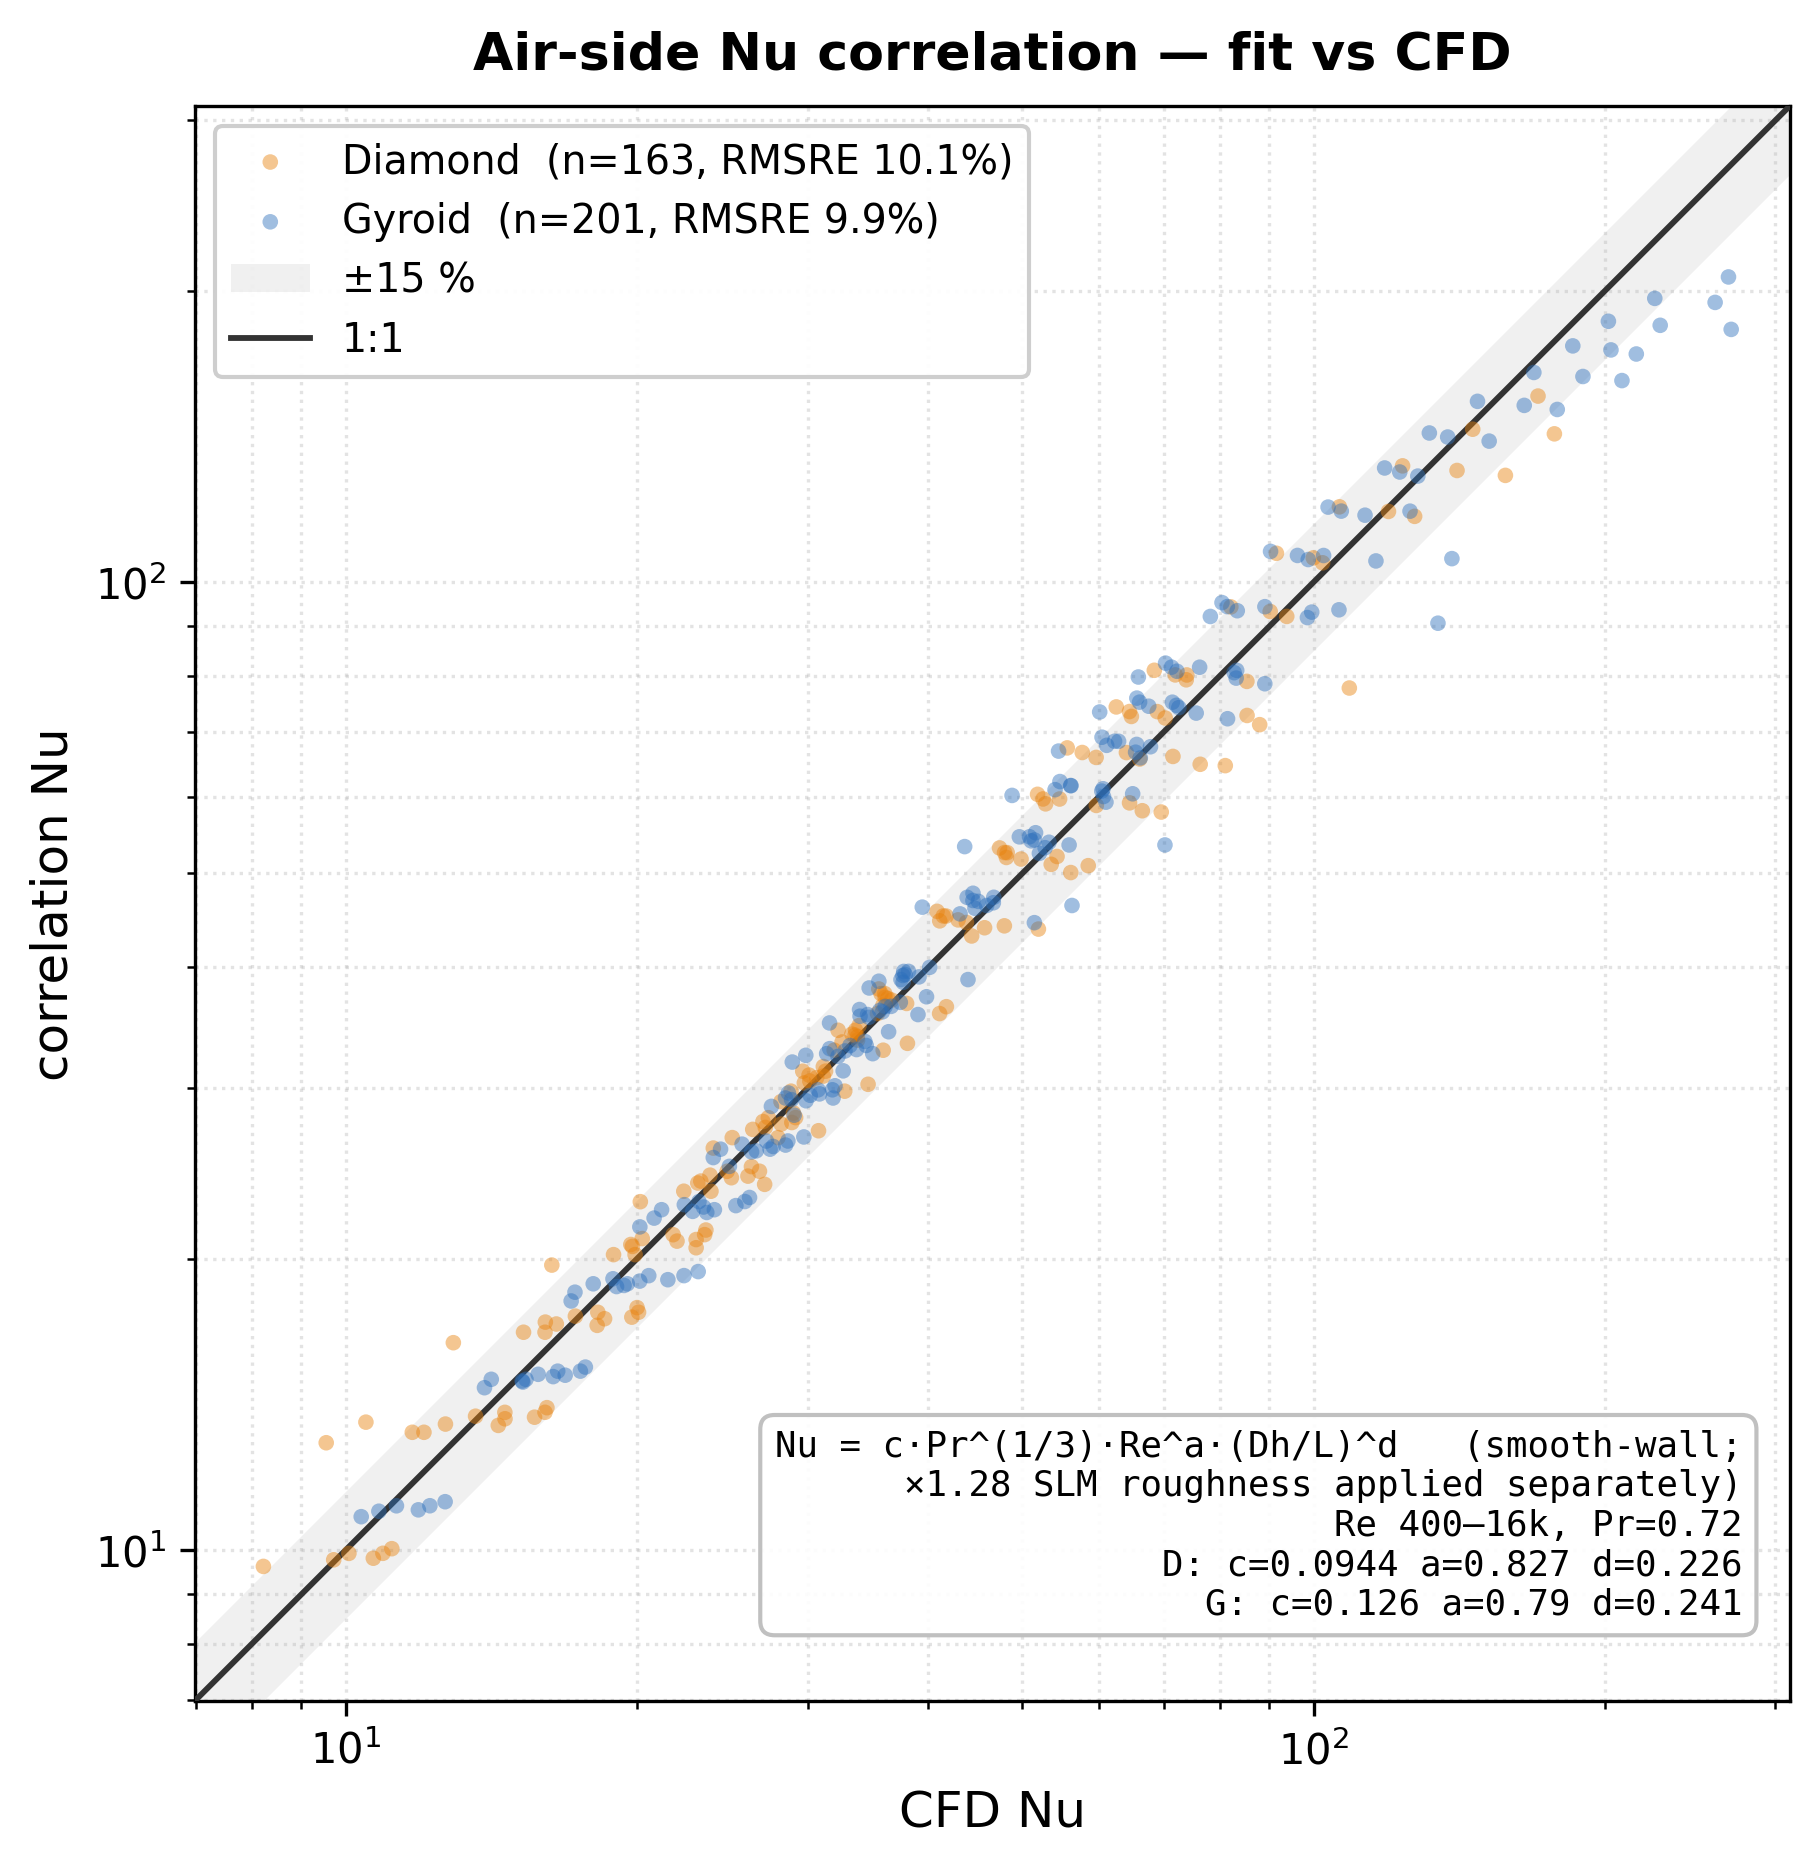
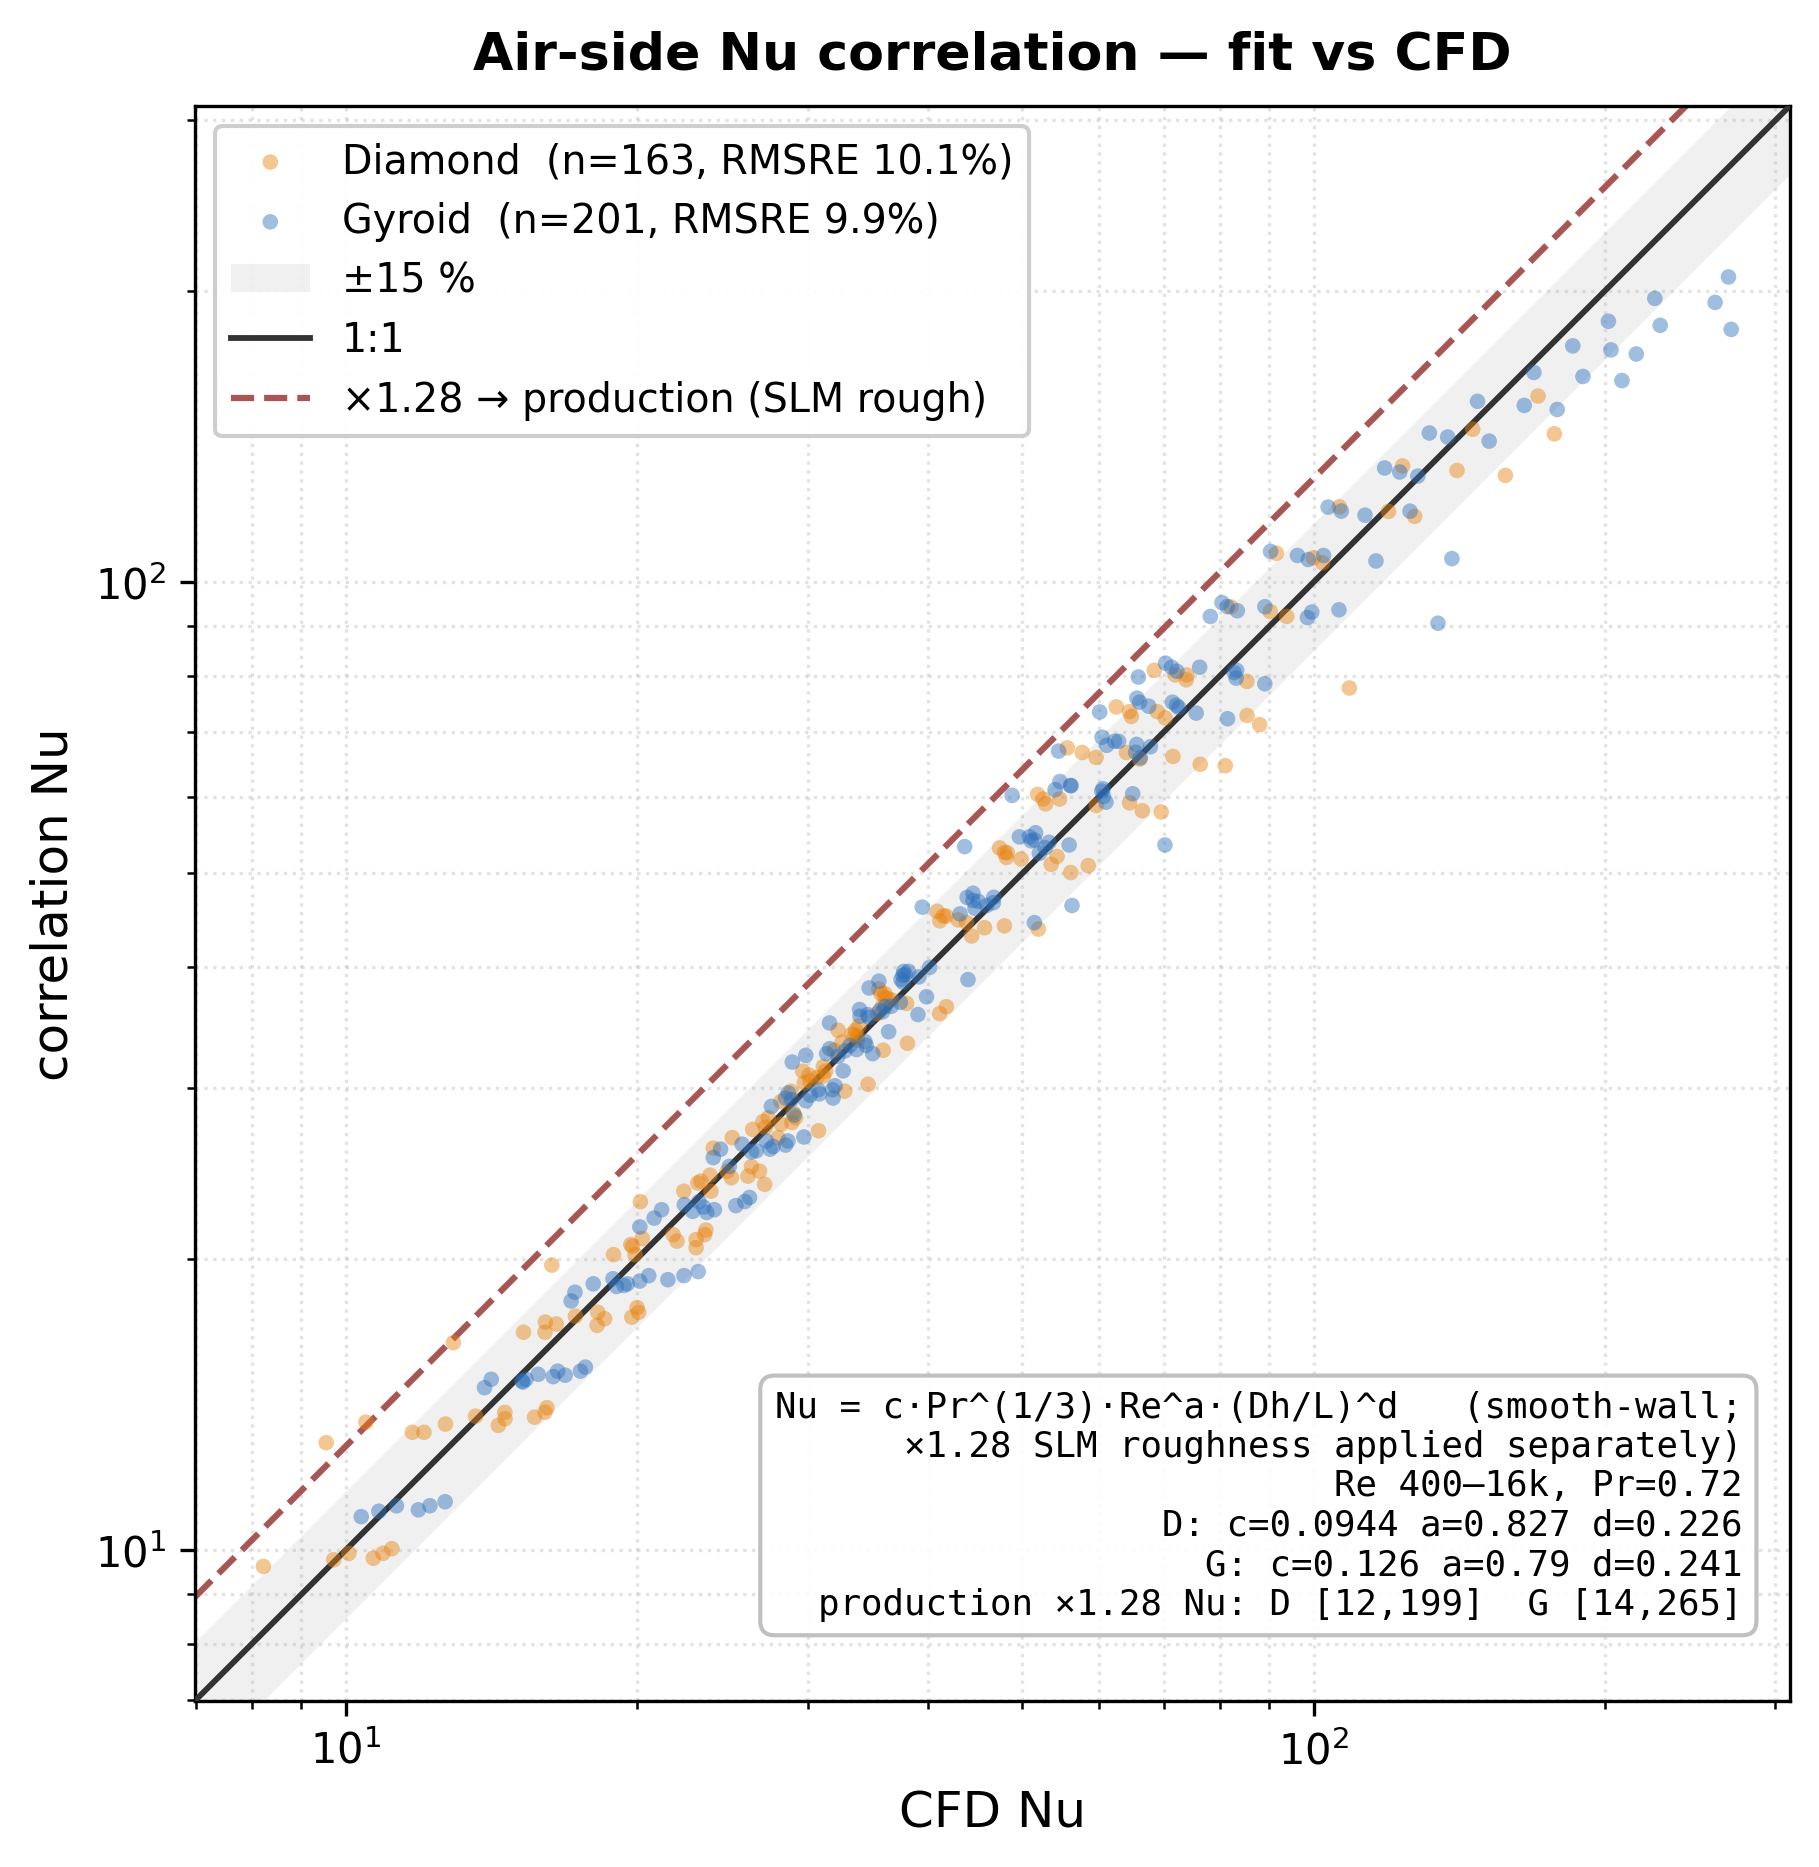
docs(readme): annotate air Nu production ×1.28 line + water provenance
* nu-air-error.png: add the ×1.28 production line (experiment-derived SLM
  roughness) above the smooth-wall 1:1, and the production Nu range
  (Diamond [12,199] · Gyroid [14,265]) — so the figure shows BOTH the smooth
  geometric fit (~10%) and where the production rough Nu sits.
* README Nu caption: clarify provenance honestly — air coefficients are the
  solver's, ×1.28 is φ_rough from experiment; water Nu is fit to water-CFD
  ONLY, with Gyroid cross-checking the Yan 2024 experiment within ±1% and
  Diamond CFD-only (no Diamond water experiment exists).

diff --git a/README.md b/README.md
@@ -92,7 +92,7 @@
 <td><img src="assets/nu-water-error.png" width="100%" alt="Water-side Nu correlation fit vs CFD — parity for Diamond (orange, n=940, RMSRE 12.5%) and Gyroid (blue, n=939, RMSRE 12.0%), Nu = c·Re^a·Pr^(1/3), Re 100-50k, Pr 2.3-5.9."></td>
 </tr></table>
 
-<sub>Per-topology Nusselt power-laws fit to CFD (**Diamond** orange · **Gyroid** blue), parity vs the full fit set. **Air** `Nu = c·Pr^⅓·Re^a·(Dh/L)^d` — smooth-wall, RMSRE ≈ 10 % (the ×1.28 SLM-roughness factor is applied separately in production). **Water** `Nu = c·Re^a·Pr^⅓` — direct fit, RMSRE ≈ 12 %. Coefficients are single-sourced in `solvers/nu_correlations.py` (`NU_COEFFS` / `WATER_NU_COEFFS`).</sub>
+<sub>Per-topology Nusselt power-laws (the solver's own coefficients, `solvers/nu_correlations.py`), parity vs the full fit set (**Diamond** orange · **Gyroid** blue). **Air** `Nu = c·Pr^⅓·Re^a·(Dh/L)^d` — smooth-wall fit RMSRE ≈ 10 %; production multiplies by **×1.28** (experiment-derived SLM-roughness φ_rough, dashed line; Nu range D [12,199] · G [14,265]). **Water** `Nu = c·Re^a·Pr^⅓` — fit to **water-CFD only** (RMSRE ≈ 12 %); Gyroid cross-checks the **Yan 2024 experiment within ±1 %**, Diamond is CFD-only (no water experiment).</sub>
 
 </div>
 
